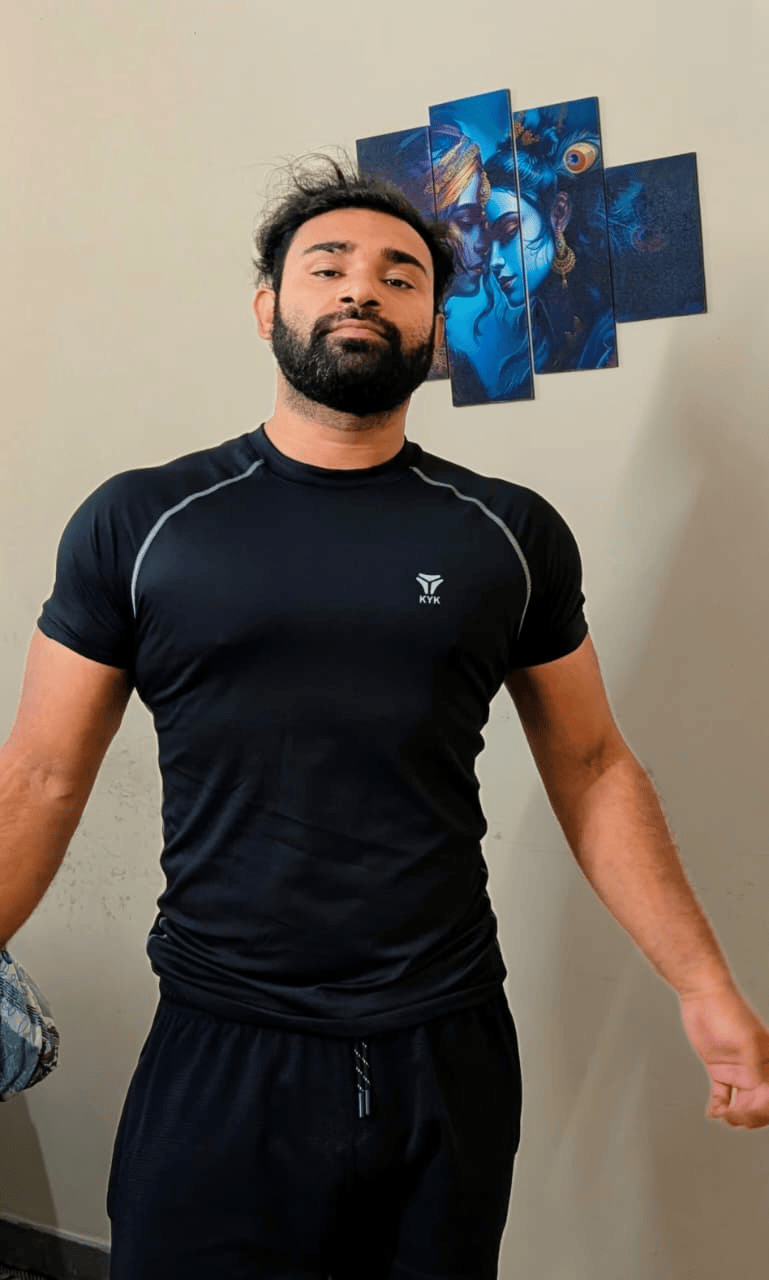
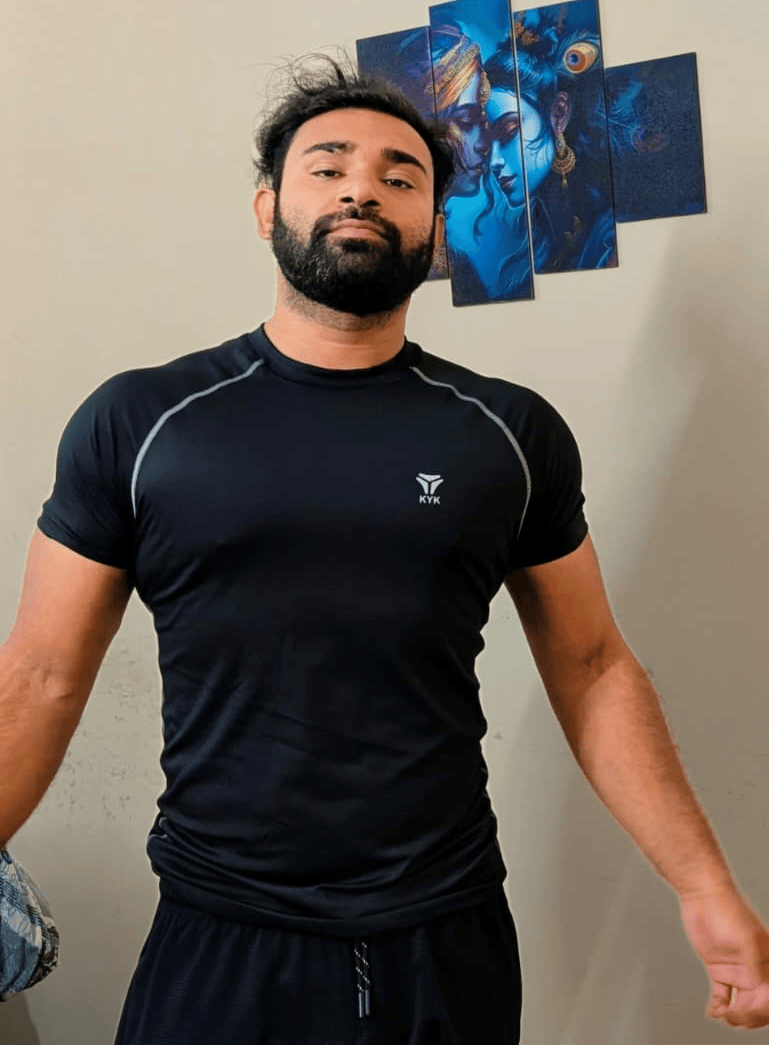
Update to collection product

diff --git a/src/assets/assets.js b/src/assets/assets.js
@@ -728,9 +728,9 @@ export const products = [
     },  
     {
         _id: "aaabzz",
-        name: "Men Slim Fit T-Shirt",
+        name: "Men Slim Fit Gym T-Shirt",
         description: "Designed for performance and comfort, this premium compression T-shirt provides a snug fit that supports your muscles during workouts. Made from breathable, moisture-wicking fabric with four-way stretch technology, it keeps you cool, dry, and comfortable during gym sessions, running, training, and other fitness activities.",
-        price: 240,
+        price: 150,
         image: [p_img53,p_img53_1,p_img53_2],
         category: "Men",
         subCategory: "Topwear",

diff --git a/src/pages/Cart.jsx b/src/pages/Cart.jsx
@@ -1,8 +1,15 @@
-import React from 'react'
+import React, { useContext, useState } from 'react'
+import { ShopContext } from '../context/ShopContext'
 
 const Cart = () => {
+
+  const { products, currency , cartItems} = useContext(ShopContext);
+  const [cartData,setCartData] = useState([])
+
   return (
-    <div></div>
+    <div>
+
+    </div>
   )
 }
 
